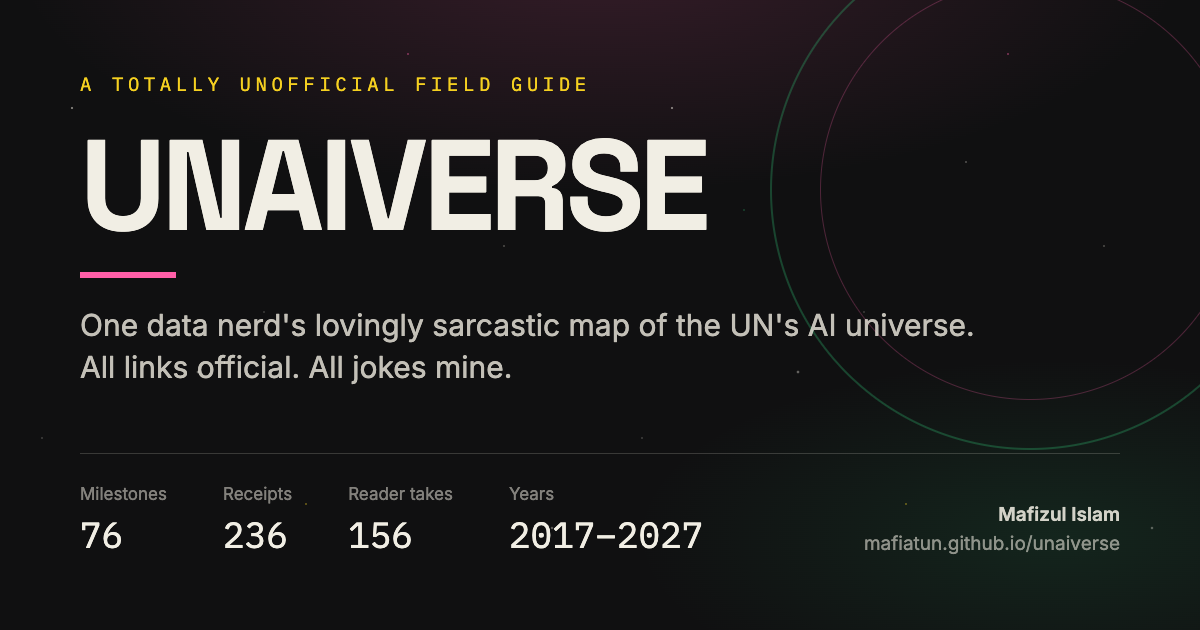
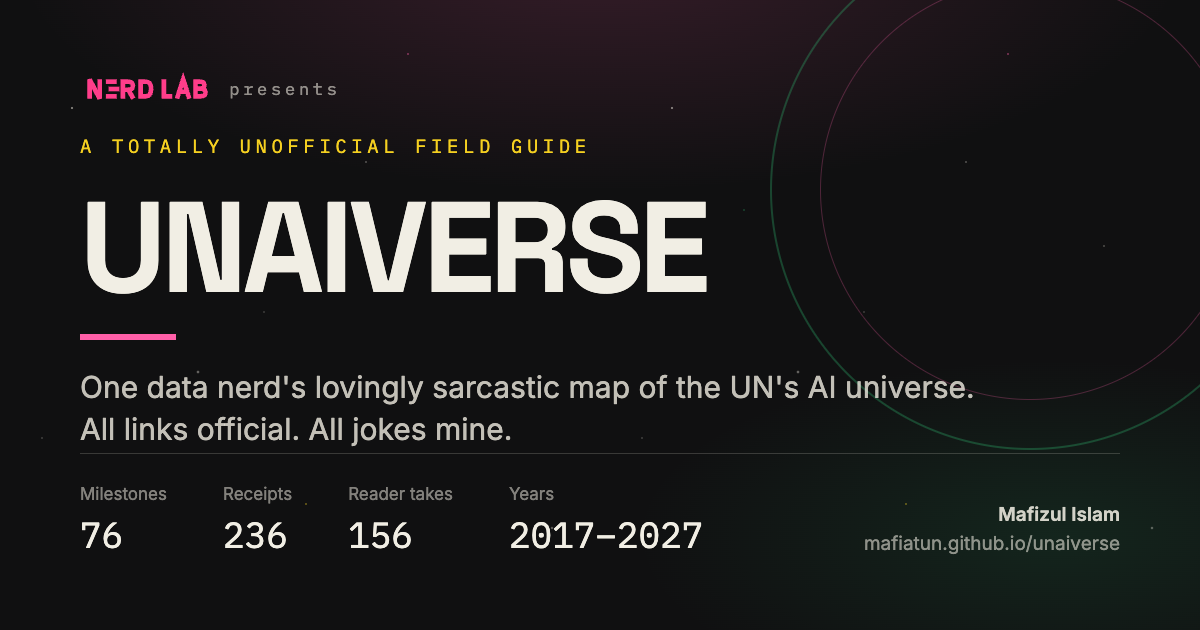
Put the Nerd Lab name on the front of the site
This goes out under Nerd Lab now, so the site says so the way a film does:
the wordmark and the word, above the title on the router, and again as a
thin band under every page's footer with the tagline. The band lives in the
layout rather than in each of the eight page footers, which disagree with
each other, and it prints black on white so the forwarded cheat sheets
carry it too.

The mark is inlined from the brand SVG with the fills swapped to
currentColor, so the pink one on the router and the dimmed one in the
footer are the same copy. The share card is regenerated with the credit on
it, and reads the brand file rather than a re-typed copy.

The "personal project / not an official UN product" fine print is
untouched: Nerd Lab's own brief insists on no implied UN affiliation, so
the label sits beside that line rather than replacing it.

diff --git a/src/lib/taxonomy.ts b/src/lib/taxonomy.ts
@@ -9,6 +9,16 @@ export const SITE = {
   bot: 'A/BOT',
 } as const;
 
+/**
+ * The label this site is published under. Nerd Lab is the author's own maker
+ * project — independent of the UN and of any employer, which is the whole
+ * point of putting a name on it.
+ */
+export const NERD_LAB = {
+  name: 'Nerd Lab',
+  tagline: 'Unnecessarily clever. Occasionally useful.',
+} as const;
+
 export type ZoneId = 0 | 1 | 2 | 3;
 
 export const ZONES: Record<
